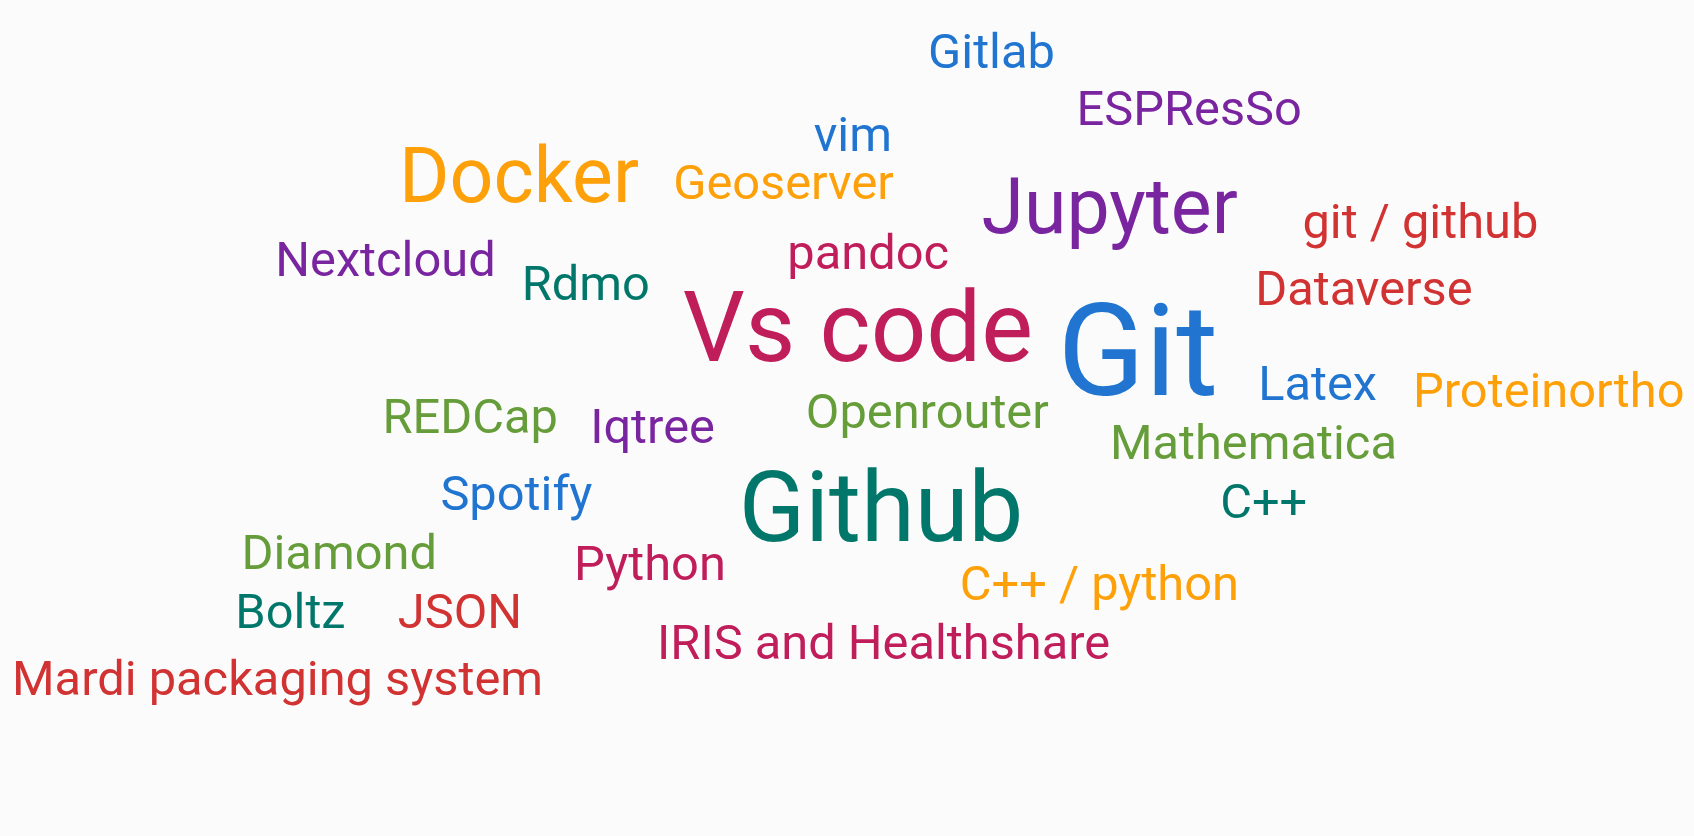
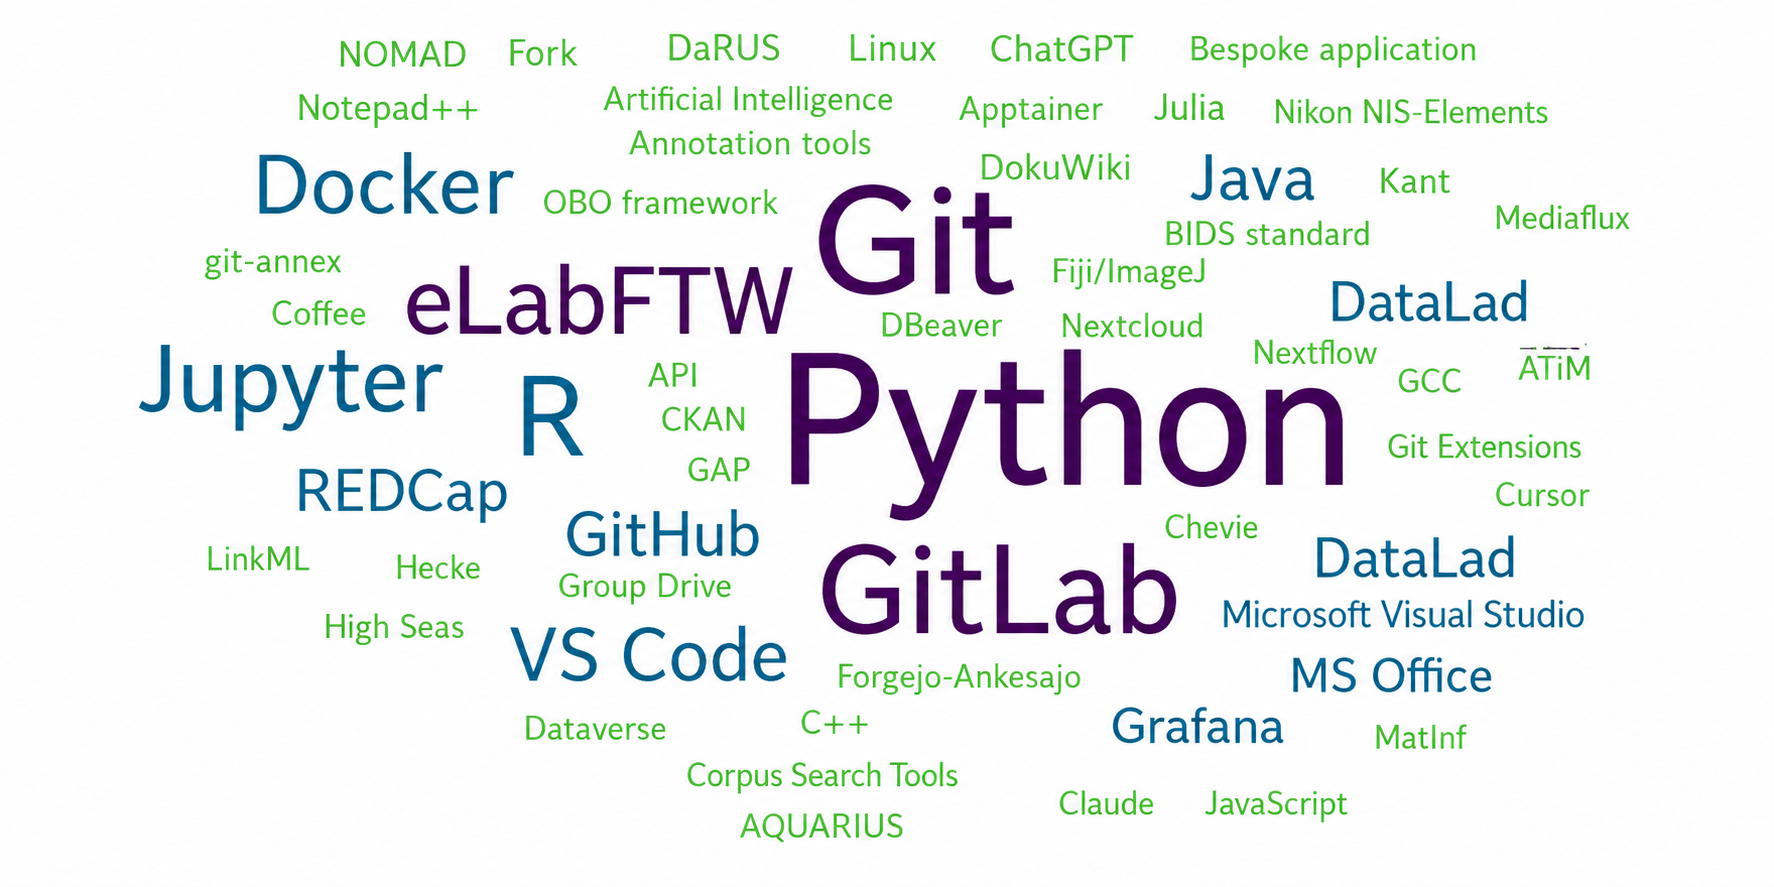
rework CRC1629, shorten intro, new figure.

diff --git a/workshop-report/report.tex b/workshop-report/report.tex
@@ -148,7 +148,7 @@ Building on that and on the workshop held at the de-RSE26 conference, we collect
 \section{Introduction}
 
 Collaborative Research Centres (CRCs), funded by the German Research Foundation (DFG), are a cornerstone of Germany's third-party funding landscape, bringing together researchers from different disciplines around shared scientific questions over periods of up to twelve years.
-As digital tools have become central to the research process — from data collection and analysis through to publication and long-term archiving — CRCs have increasingly pooled these responsibilities in dedicated sub-projects known as INF projects (German: "Informationsmanagement und Informationsinfrastruktur"), formally also known as Z-Projects (German: "Zentralprojekt").
+As digital tools have become central to the research process – from data collection and analysis to publication and long-term archiving — CRCs have increasingly pooled these responsibilities in dedicated sub-projects known as INF projects (German: "Informationsmanagement und Informationsinfrastruktur"), formally also known as Z-Projects (German: "Zentralprojekt").
 These units provide research data management (RDM) and research software engineering (RSE) services to all projects within a CRC, while contending with the particular demands of interdisciplinary, long-running collaborations.
 Despite their growing numbers, INF projects are rarely documented as a collective: their structures, practical approaches, and accumulated experience tend to remain within individual CRCs.
 This report attempts to change that.
@@ -157,38 +157,34 @@ We first catalogue current and past INF projects across Germany's research lands
 \section{History of the INF projects}
 \label{sec:history}
 The beginnings of specialised, shared positions within CRCs can be traced back to the foundation of the CRC 299, which was established in 1997 to survey the use of land under various characteristics.
-Being interdisciplinary and already aiming for the maximum runtime of 12 years, it was apparent from the beginning \cite{mueckschel2006} that a careful management of data has to happen in order to be useful for all associated disciplines.
+Being interdisciplinary and already aiming for the maximum runtime of 12 years, it was apparent from the beginning \cite{mueckschel2006} that a careful management of data had to happen in order to be useful for all associated disciplines.
 Around the same time, various incidents of scientific misconduct prompted the German Research Foundation (GRF, DFG) to highlight in their
 memorandum on ``Safeguarding Good Scientific Practice'' \cite{DFG1998}
-the importance of research data as ``primary data''  and has put out the recommendation to take special care of those data at the host institution.
-Combining both requirements, more CRCs started to include personnel who handle data management.
+the importance of treating research data as ``primary data'', putting out the recommendation to take special care of those data at the host institution.
+Combining both requirements, more CRCs started to include personnel to handle data management.
 A first workshop \cite{SFB299-2004, SFB299-2005} on comparing lessons learnt was organised by CRC 299 and CRC 552 in 2004 in Gießen.
 The respective follow-up workshop was organised again by CRC~299 and CRC~552 in 2007 \cite{SFB299-2007}.
-Around the same time, the process of having dedicated projects for the information infrastructure was formalised (based on the precursor work of CRC~299 and CRC~552)
-and since 2007, INF projects can be applied for in CRCs at the GRF, with the first projects starting around 2009 \cite{Forschungsdateninfrastruktur2013}.
-Moving on, the regional focus shifts to Cologne.
-In 2009, a workshop was organised by TRR~32 and CRC~806 bringing together almost 80 participants from a diverse set of disciplines who published their experiences in a
-Post-Proceedings volume \cite{curdt787}.
-The next workshop was organised by the project ``Radieschen (Rahmenbedingungen einer disziplinübergreifenden Forschungsdateninfrastruktur)''
-in Göttingen \cite{Forschungsdateninfrastruktur2013}.
-Among the participants they observed, that most INF projects were with central institutions like libraries and computing centres and maintained central
-RDM infrastructures for research collaboration. And, again, acceptance of the INF projects was brought up.\\
+Around the same time, the process of having dedicated projects for the information infrastructure was formalised (based on the precursor work of CRC~299 and CRC~552).
+Since 2007, INF projects have been eligible for funding in CRCs at the GRF, with the first projects starting around 2009 \cite{Forschungsdateninfrastruktur2013}.
+The focus then shifted to Cologne. In 2009 TRR~32 and CRC~806 organised a workshop of nearly 80 participants of diverse disciplines, 
+later documented in a Post-Proceedings volume \cite{curdt787}.
+A subsequent workshop by the project ``Radieschen (Rahmenbedingungen einer disziplinübergreifenden Forschungsdateninfrastruktur)'' 
+in Göttingen \cite{Forschungsdateninfrastruktur2013} found that most INF projects cooperated with central institutions such as libraries and computing centers and mantained central RDM infrastructures.
+And, again, acceptance of the INF projects was brought up.\\
 Between 2013 and 2015, the number of funded INF projects increased, and hence the funding line became more established \cite{Engelhardt2013Forschungsdatenmanagement, bastian_2025}.
-
 Another follow-up workshop was held in Göttingen in 2018 \cite{Roertgen2019},
 organised as part of the project GRAcE  - \href{https://data.goettingen-research-online.de/dataverse/GRAcE}{Göttingen Research Data Exploratory - management parameters parameters derived from the
 Göttingen eResearch Alliance}.
 Around 2022, the DFG started to hand out guidelines for the INF projects \cite{bastian_2025}.
 Another workshop that should belong in this list was organised by the DINI/nestor AG Forschungsdaten in 2020 \cite{Rizzolli_2021},
 which discussed how much the tasks of an INF project align with the tasks of data stewards.
-Again in Cologne, another workshop was hosted \cite{bastian_2025} and organised by the DINI/nestor AG Forschungsdaten and the state initiatives
-\href{https://www.uni-marburg.de/en/hefdi/about-hefdi}{HefDi} and \href{https://saxfdm.de/}{SaxFDM}.
-A notable insight is, that no participant has been to any
-of the previous workshops, and it was also noted, that following the rules is still a better motivator for following data
+Another workshop in Cologne, hosted \cite{bastian_2025} and organised by the DINI/nestor AG Forschungsdaten and the state initiatives
+\href{https://www.uni-marburg.de/en/hefdi/about-hefdi}{HefDi} and \href{https://saxfdm.de/}{SaxFDM},
+noted first, that no participant has been to any
+of the previous workshops, and second, that following the rules is still a better motivator for following data
 management guidelines, rather than any intrinsic motivation from the scientists.
-In March 2026, we held a small workshop at de-RSE26. Notable here is that as many Research Software Engineers have been present
-as Research Data Managers.
-Already early on \cite{mueckschel2006} it was noted that central challenges of a data management solution will be
+In March 2026, a small de-RSE26 workshop showed an equal presence of Research Software Engineers and Research Data Managers.\\
+Already early on \cite{mueckschel2006} it was noted that central challenges of data management solutions would be
 \begin{itemize}
  \item personnel fluctuations over the runtime of a CRC,
  \item safe storage for the lifetime of a CRC,
@@ -300,28 +296,26 @@ In addition to traditional workshops and hands-on sessions, the INF project, in 
 Within this course, MatInf serves as one of the central use cases, and students gain not only practical experience working with the system through its REST APIs, but are also deeply involved in evaluating the compliance of such systems with the FAIR principles and discussing possible directions for their future development.
 
 \subsection{Project INF --- Scientific services and data management - \href{https://gepris.dfg.de/gepris/projekt/537324246?language=en}{CRC 1629 Negation in Language and Beyond} - Frankfurt am Main, Tübingen, Göttingen}
-CRC~1629 \emph{Negation in Language and Beyond} (NegLaB) is a Collaborative Research Center that investigates negation as a linguistic and cognitive phenomenon from different empirical and theoretical perspectives.
-Its projects span a wide range of disciplines, including theoretical linguistics, corpus-based research, and experimental work. As a result, CRC~1629 generates very different kinds of data through diverse methodologies and workflows. Within this setting, our project plays a central role by providing RDM, consulting, and teaching. This is particularly important in a humanities CRC, where researchers often work with sensitive data and are usually not formally trained in areas such as data management, data analysis, statistics, or experimental design.
-Our project is interdisciplinary, bringing together the three principal investigators, Alexander Mehler (computer science),
-Manfred Sailer and Sol Lago (linguistics), as well as collaborators from both disciplines,
-including Nasimeh Bahmanian, Giuseppe Abrahami, Andy Lücking, Leon Hammerla, and Mercedes Martinez Bruera.
-This interdisciplinarity is both the project’s major strength and one of its main challenges.
-The challenge is further amplified by the fact that NegLaB’s scientific questions explicitly depend on cross-linguistic and cross-method integration.
-As a result, infrastructure decisions affect not only individual projects, but also how easily results can be compared and integrated across the CRC.
-One important contribution has been the setup of a server that allows CRC members to implement,
-share, and run experiments online using open-source software like PCIbex\cite{zehr_schwarz_2018_pcibex}.
-Additionally, we developed a platform for collecting metadata for each project’s data.
-This was particularly important because the platform had to be flexible enough to accommodate very different types of data,
-including theoretical, experimental, and fieldwork-based materials.
+CRC 1629 \textit{Negation in Language and Beyond} (NegLaB) investigates negation as a grammatical and cognitive phenomenon from different empirical and theoretical perspectives. 
+Its projects span a variety of disciplines, such as theoretical linguistics, corpus-based research as well as experimental work, resulting in a heterogeneous range of methodologies and workflows.
+This diversity challenges and inspires the three principal investigators, Alexander Mehler (computer science), Manfred Sailer, and Sol Lago (linguistics), alongside fellow researchers from these disciplines, including Giuseppe Abrami, Nasimeh Bahmanian, Leon Hammerla, Andy Lücking, and Mercedes Martinez Bruera.
 
-Collaboration with the library services of Goethe University Frankfurt has been an important part of our work.
-Together, we developed a CRC-wide data management policy and established data management plans for each project using the Research Data Management Organiser (RDMO).
-This collaboration has also helped increase the visibility of INF's research data management initiatives, as these have been presented and discussed at events organised by the library services.
-Beyond our host institution, we are in contact with \href{https://www.uni-marburg.de/en/hefdi/about-hefdi}{HefDi},
-which is a Hessen-wide network that offers courses and resources regarding data management, as well as with other linguistics CRCs.
+Our project fulfills a central mission by providing services such as research data management, consulting, and teaching, as well as software development.
+Since the research questions explicitly require the integration of various cross-linguistic and cross-methodological models and concepts, it is crucial to ensure comparability and the ability to reuse data across different projects.
+For this purpose, various platforms are provided as container-based solutions (in Docker and Kubernetes) to ensure sustainability and portability, as well as to extend existing implementations.
+Our \href{https://about.gitlab.com/}{\textit{GitLab}} instance facilitates collaborative software development, while the web-based \href{https://nextcloud.com}{\textit{Nextcloud}} platform enables the storage of research results and provides centralized data backup.
+Concurrently, a container-based server solution was developed for data acquisition, allowing experiments to be configured, shared, and executed online using open-source software such as PCIbex~\cite{Zehr:Schwarz:2018}.
+Furthermore, localized large language models (LLMs) and visual language models (VLMs) can be accessed via an \href{https://openwebui.com/}{\textit{OpenWebUI}} instance, which utilizes a dedicated Nvidia H200 GPU.
+In addition, a \href{https://jupyter.org/hub}{\textit{Jupyter Hub}} (with Single Sign-On) is available for implementing web-based scripts and performing analyses using different models.
+These advancements contribute to the instantiation of reusable software components within the distributed big data infrastructure \textit{DUUI}~\cite{Leonhardt:et:al:2023}, which enables container-based NLP methods, including the LLMs, within cluster solutions~\cite{Abrami:et:al:2025:a}.
+Through DUUI, heterogeneous implementations of methods, data formats~\cite{Hammerla:et:al:2025a}, and modalities~\cite{Bundan:Abrami:Mehler:2025} can be effectively processed, whereby a web- and API-based solution is also available through \textit{DUUIgateway}~\cite{Borkowski:et:al:2026}.
 
-Our main takeaway is how important an INF project is in a humanities CRC: it helps ensure that sensitive and valuable data are handled appropriately, while at the same time giving researchers access to forms of training they would otherwise rarely receive.
-We have also learnt how productive collaboration between computer scientists and linguists can be, as linguists provide fine-grained and theoretically grounded insights into language, while computer scientists contribute more efficient implementations and novel methodological approaches for research.
+For versioning and repurposing of research results, a web-based metadata platform was developed that allows the flexible documentation of various types of information, including theoretical, experimental, and fieldwork-based materials.
+Simultaneously, in collaboration with the library services at Goethe University Frankfurt, a CRC-wide data management protocol was developed and data management plans were established for each project using the Research Data Management Organizer (\href{https://rdmo.uni-frankfurt.de/}{RDMO})~\cite{Bahmanian:et:al:2025}.
+This collaboration has also helped increase the visibility of INF’s research data management initiatives, as these have been presented and discussed at events organized by the library services. 
+
+Our main takeaway is that an INF project is crucial in a humanities CRC: it helps ensure that sensitive and valuable data are handled appropriately, while at the same time giving researchers access to forms of training they would otherwise rarely receive. 
+We have also learned how productive collaboration between computer scientists and linguists can be, as linguists provide fine-grained and theoretically grounded insights into language, while computer scientists contribute more efficient implementations and novel methodological approaches.
 
 \subsection{Project INF --- Information Infrastructure, \href{https://www.sfb1638.de/}{CRC~1638 --- Cellular Membrane Remodelling -- How Changing Form Creates Function}, Heidelberg, Mannheim}
 CRC~1638 investigates cellular membrane remodelling across five institutions, with projects generating data spanning imaging, structural biology, lipidomics, proteomics, and simulations.
@@ -544,7 +538,7 @@ Through its innovative approach and strong interdisciplinary connections, CIDS, 
 to TU Dresden’s reputation in research excellence and digital transformation by addressing the challenges of the data-driven era of science.
 
 \subsection{Surveying the INF projects}
-To corroborate this overview of INF projects we did an informal survey during the workshop and in the weeks after the workshop by spreading the survey.
+To corroborate this overview of INF projects we conducted an informal survey during the workshop and in the weeks after.
 In total, we received around 35 individual answers to the questions that we summarise here.
 When asked how much the original chosen education of the INF project aligned with the domain of the CRC two thirds of participants at least somewhat agreed.
 Also, around two thirds held at least a PhD level education, while a third held a master's or equivalent.
@@ -575,44 +569,43 @@ In the in-person workshop, we led discussions in four separate groups.
 We summarise each discussion in the following paragraphs.
 
 \subsection{Outreach, Collaboration and Networking}
+
 INF projects are often one of the cross-cutting components within a CRC,
-and as such they play an important part in the collaboration and networking within the project.
-Also, because partners working in INF projects necessarily have to have a higher-level overview of work within the entire CRC,
-they can be valuable partners or even facilitators of outreach of the project.
+and therefore they play an important part in the collaboration and networking within the project.
+Since partners in INF projects necessarily need a higher-level overview of the work across the entire CRC, 
+they can also be valuable partners or even facilitators of project outreach. 
 This section discusses experiences in this important social and cross-disciplinary component of an INF project.
 
 We acknowledge that some of the experiences likely only apply to certain categories of domains.
 However, we also expect that often these are wide enough, \eg~“the natural sciences”, to be interesting to the reader.
-It would be interesting to look at the breadth of applicability of experiences,
-but we do not have enough data to make any such claim, so most of the following has more of an anecdotal character.
-Nevertheless, participants expressed that even sharing those was valuable for them and likely their projects.
+Investigating the breath of applicabiilty would be valuable to do, however we do not have enough data to make such claims. 
+Thus, most of the following has a more anecdotal character. Nevertheless, participants expressed that sharing these experiences 
+was valuable for them, and likely also their projects. 
 
 We start with the usual suspects and their perceived effectiveness, rooted in project management.
 Most projects hold annual status and PhD candidate meetings.
-Both are seen as somewhat useful, but in the end, that frequency is seen as too low.
-In contrast, a quarterly frequency is experienced as much more effective.
-Three months is seen as not too often to get in the way of “regular work”,
-but frequently enough for most projects to provide early feedback and incentivise a timely implementation of agreed-upon targets.
-Most importantly, this frequency is not only seen as more effective than yearly by the INF teams,
+Both are seen as somewhat useful, but their frequency is perceived as too low.
+In contrast, quaterly meetings are experiences as much more effective: 
+three months is not too often to interfere with “regular work”, 
+but frequent enough to provide early feedback and incentivise timely implementation of agreed-upon targets
+Importantly, this frequency is not only seen as more effective by the INF teams,
 but also by the researchers, increasing their engagement with the INF projects.
-Also connected to update intervals, an open development (as opposed to a closed one) eased outreach for multiple INF projects,
-as researchers felt more connected to the work within the INF project.
+Relatedly, open development, as opposed to a closed one, eased outreach for multiple INF projects,
+as researchers felt more connected to the work within the INF project. 
 
 Another topic besides meeting frequency is the choice of contact channels.
-The general agreement within the workshop participants was that there is not a single preferred channel,
-but everyone agreed that the preferred choice is effectively dictated by the channels the researchers within the CRC prefer.
-Especially, social media platforms seem to work well if the targeted research communities already use them.
-Thus, one piece of advice from the workshop is: Investigate the preferred communication and outreach channels of your community and use those.
-While creating networks between non-INF projects was often experienced as easier than between INF and non-INF projects,
-serving and then re-using their communication channels is often very helpful.
+Worlkshop participants agreed that there is no single preffered channel; rather
+the best choise is effectively dictated by the channels the researchers within the CRC already use.
+One piece of advice from the workshop is therefore: investigate the preferred communication and outreach channels of your community, and use those. 
+While creating networks between non-INF projects was often experienced as easier than between INF and non-INF projects, serving and then re-using their communication channels was often helpful.
 
 Generally, meeting formats with a lower (near-work) level seem to work far better than higher-level formats.
 This includes offerings as part of PhD-schools, courses, as well as internal project pairings.
 The closer those are to what researchers perceive as “the actual work”, the more successful they are.
 One of the prerequisites for success, also more generally,
-of these efforts seems to be an explicit backing of such low-level offerings and pairings by the PIs of the project.
-A challenge that stems from this is that new topics within digital research, \eg, tools or methods, can sometimes be relatively easy to introduce on a low-level, but may require substantial persuasion on the level of research-PIs.
-One takeaway point here is that this PI-buy-in can not only be helpful but often is inevitable.
+of these efforts seems to be an explicit backing of such low-level offerings and pairings by the project PIs.
+One resulting is that new topics within digital research, \eg, tools or methods, can sometimes be relatively easy to introduce on a low-level, but may require substantial persuasion on the level of research-PIs.
+One takeaway point here is that this PI-buy-in is not only helpful, but often inevitable
 
 Not surprisingly, general ideas that are close to the Open Science community, and thus to the RDM and RSE communities as well, like the FAIR principles,
 can be hard to convey within some CRCs, especially when the served communities do not put a high value on those themselves.
@@ -664,7 +657,7 @@ Integrating ELNs with established repositories like \href{https://dataverse.org/
 Despite these tools, the workshop highlighted a persistent gap in the quality of researcher-provided metadata, pointing to the need for better training and workflow integration to ensure artefacts remain verifiable and reusable over the long term.
 
 \subsection{Workflows and Pipelines}
-A common topic occurring in INF projects is helping researchers in forming pipelines of the software they use.
+A common topic occurring in INF projects is helping researchers form pipelines of the software they use.
 In this endeavour, especially workflow platforms are particularly beneficial.
 Established examples from various domains are \href{https://galaxyproject.github.io/}{Galaxy}, \href{https://esciencelab.org.uk/products/taverna/}{Taverna}, and \href{https://workflowhub.eu/}{workflowhub}.
 The use of standardised languages like \href{https://www.commonwl.org/}{CWL} would be beneficial, but so far we see a number of languages
@@ -674,7 +667,7 @@ as offered by platforms such as github and gitlab in their CI/CD environments.
 While it would be great to use standardised languages, there are a couple of stumbling blocks that make adoption difficult:\\
 Workflow languages require training.
 Since you have to lay out your steps in a standardised language, you also have to learn it.
-This process is similar to programming, so this requires coding practise.
+This process is similar to programming, and thus requires coding practise.
 Codified pipelines will have version changes, and that can bring the well-known problem of long-term maintenance.
 For some, an issue can be that workflows have to be permitted in the respective domain,
 so it can be that the use of a workflow requires approvals, \eg~by an ethics board or similar.
@@ -721,7 +714,7 @@ Comparing with \cite{mueckschel2006} a couple of other challenges still persist,
 to adapt their platforms to the scientists’ evolving requirements, or how to design platforms that are open and extensible
 while still being easy enough to be accepted by users.
 We have detailed some of these struggles and some of this generation’s solutions in our lessons learnt in \autoref{sec:lessons}.
-Adapting to rapidly changing scientific questions will always be a challenge to the person filling out the role of the INF project in a CRC.
+Adapting to rapidly changing scientific questions will always be a challenge to the people filling out the role of the INF project in a CRC.
 But together with the strong networks they are embedded in\footnote{
 We founded a network for INF projects: \url{https://www.listserv.dfn.de/sympa/info/inf-projects-in-crcs}.
 }, this is a challenge that INF projects everywhere happily take on.